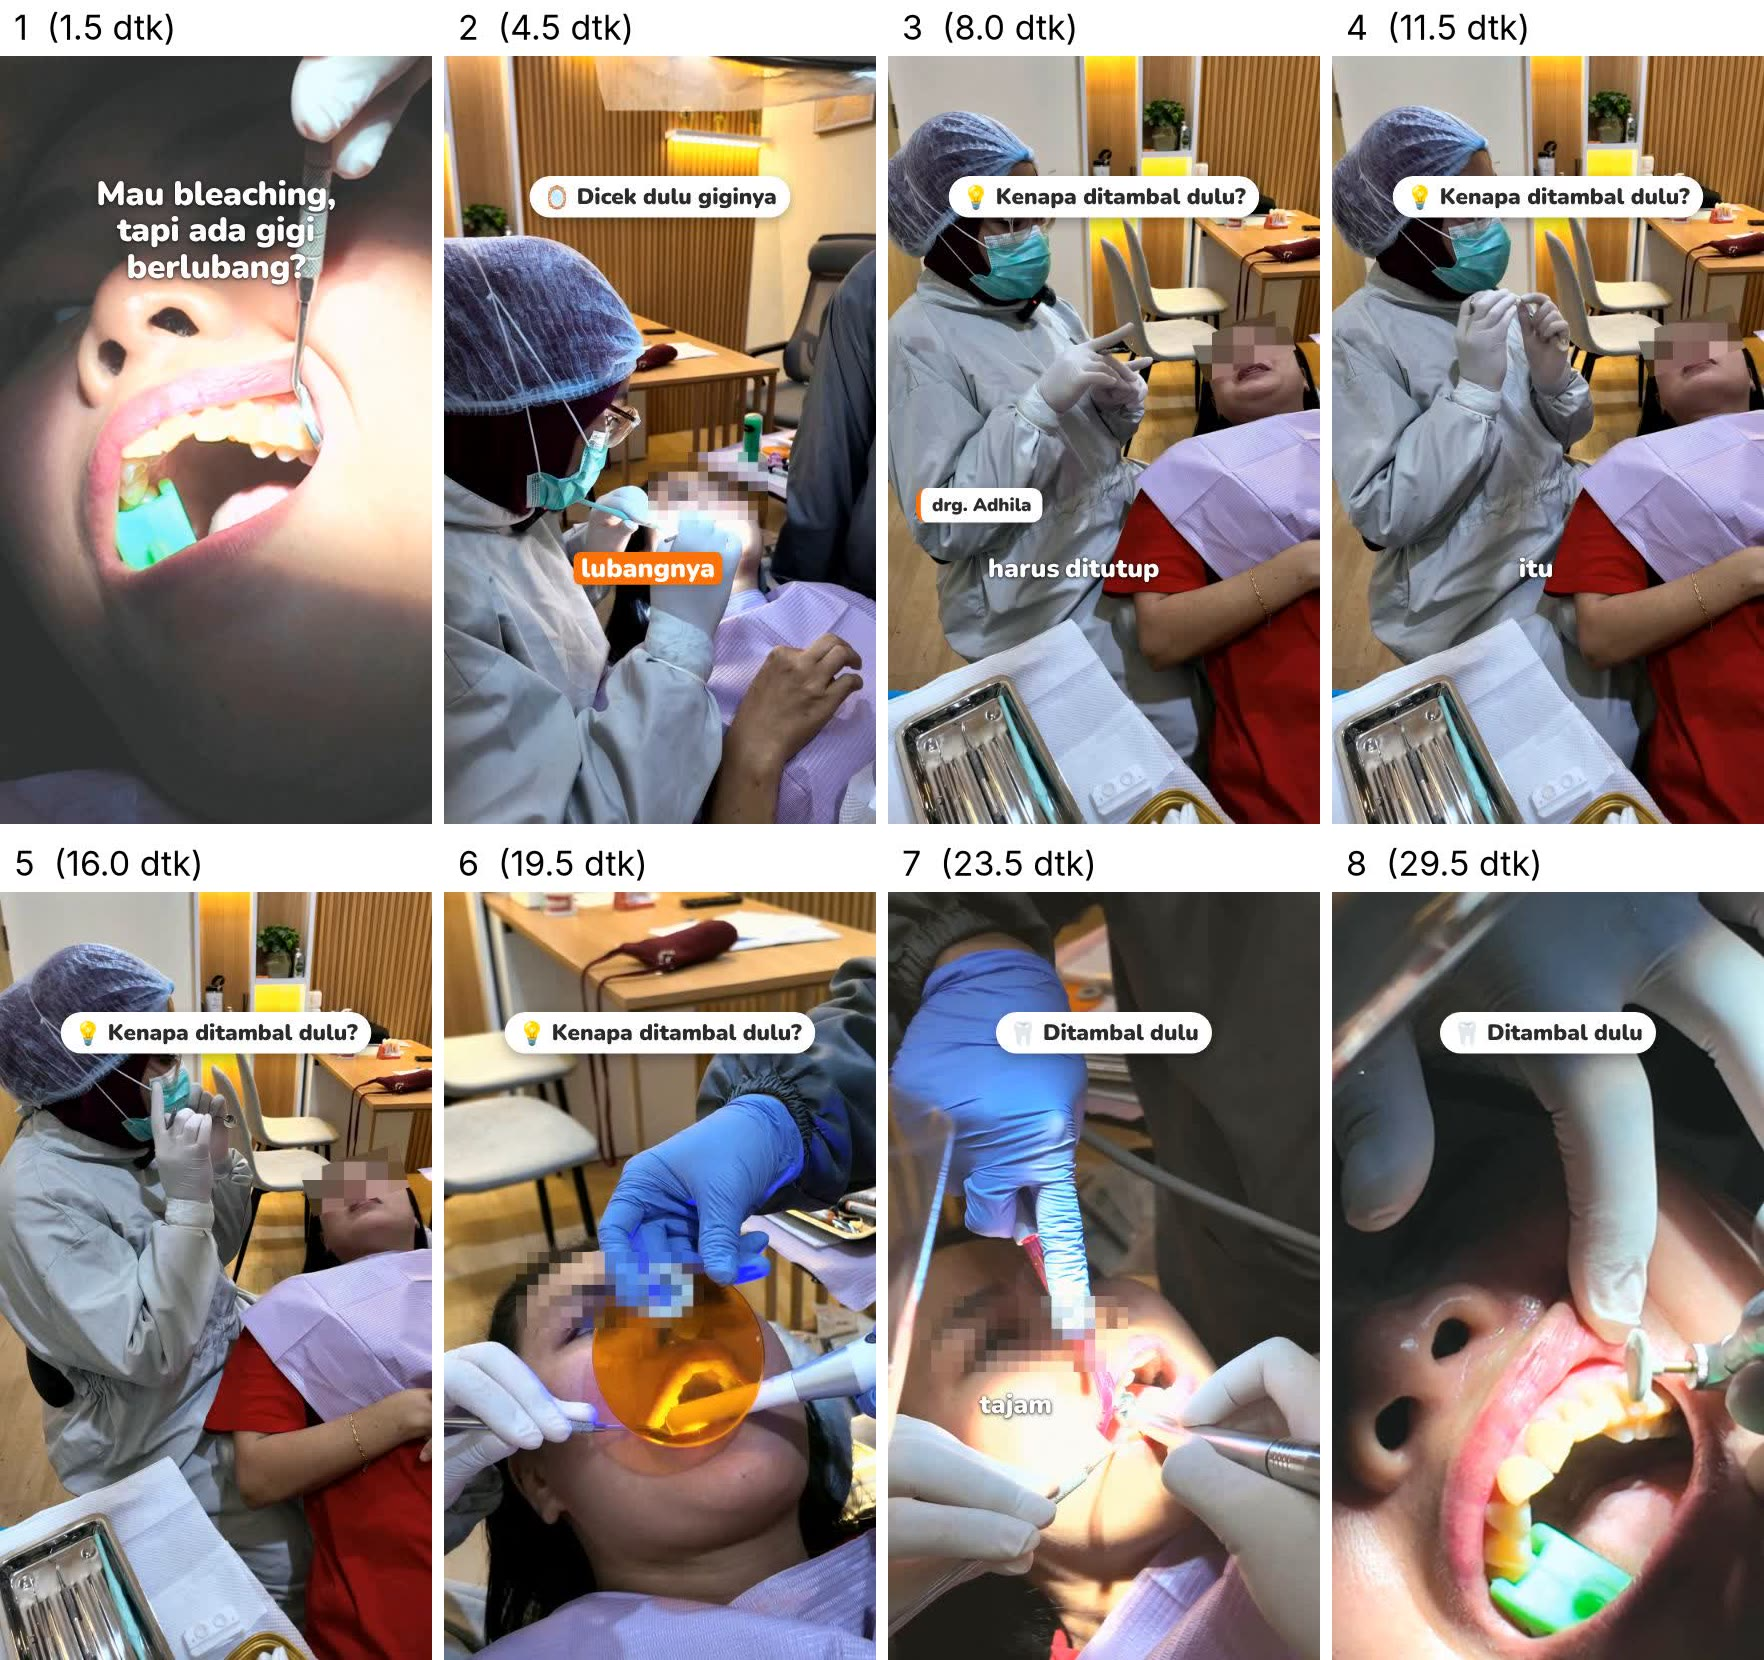
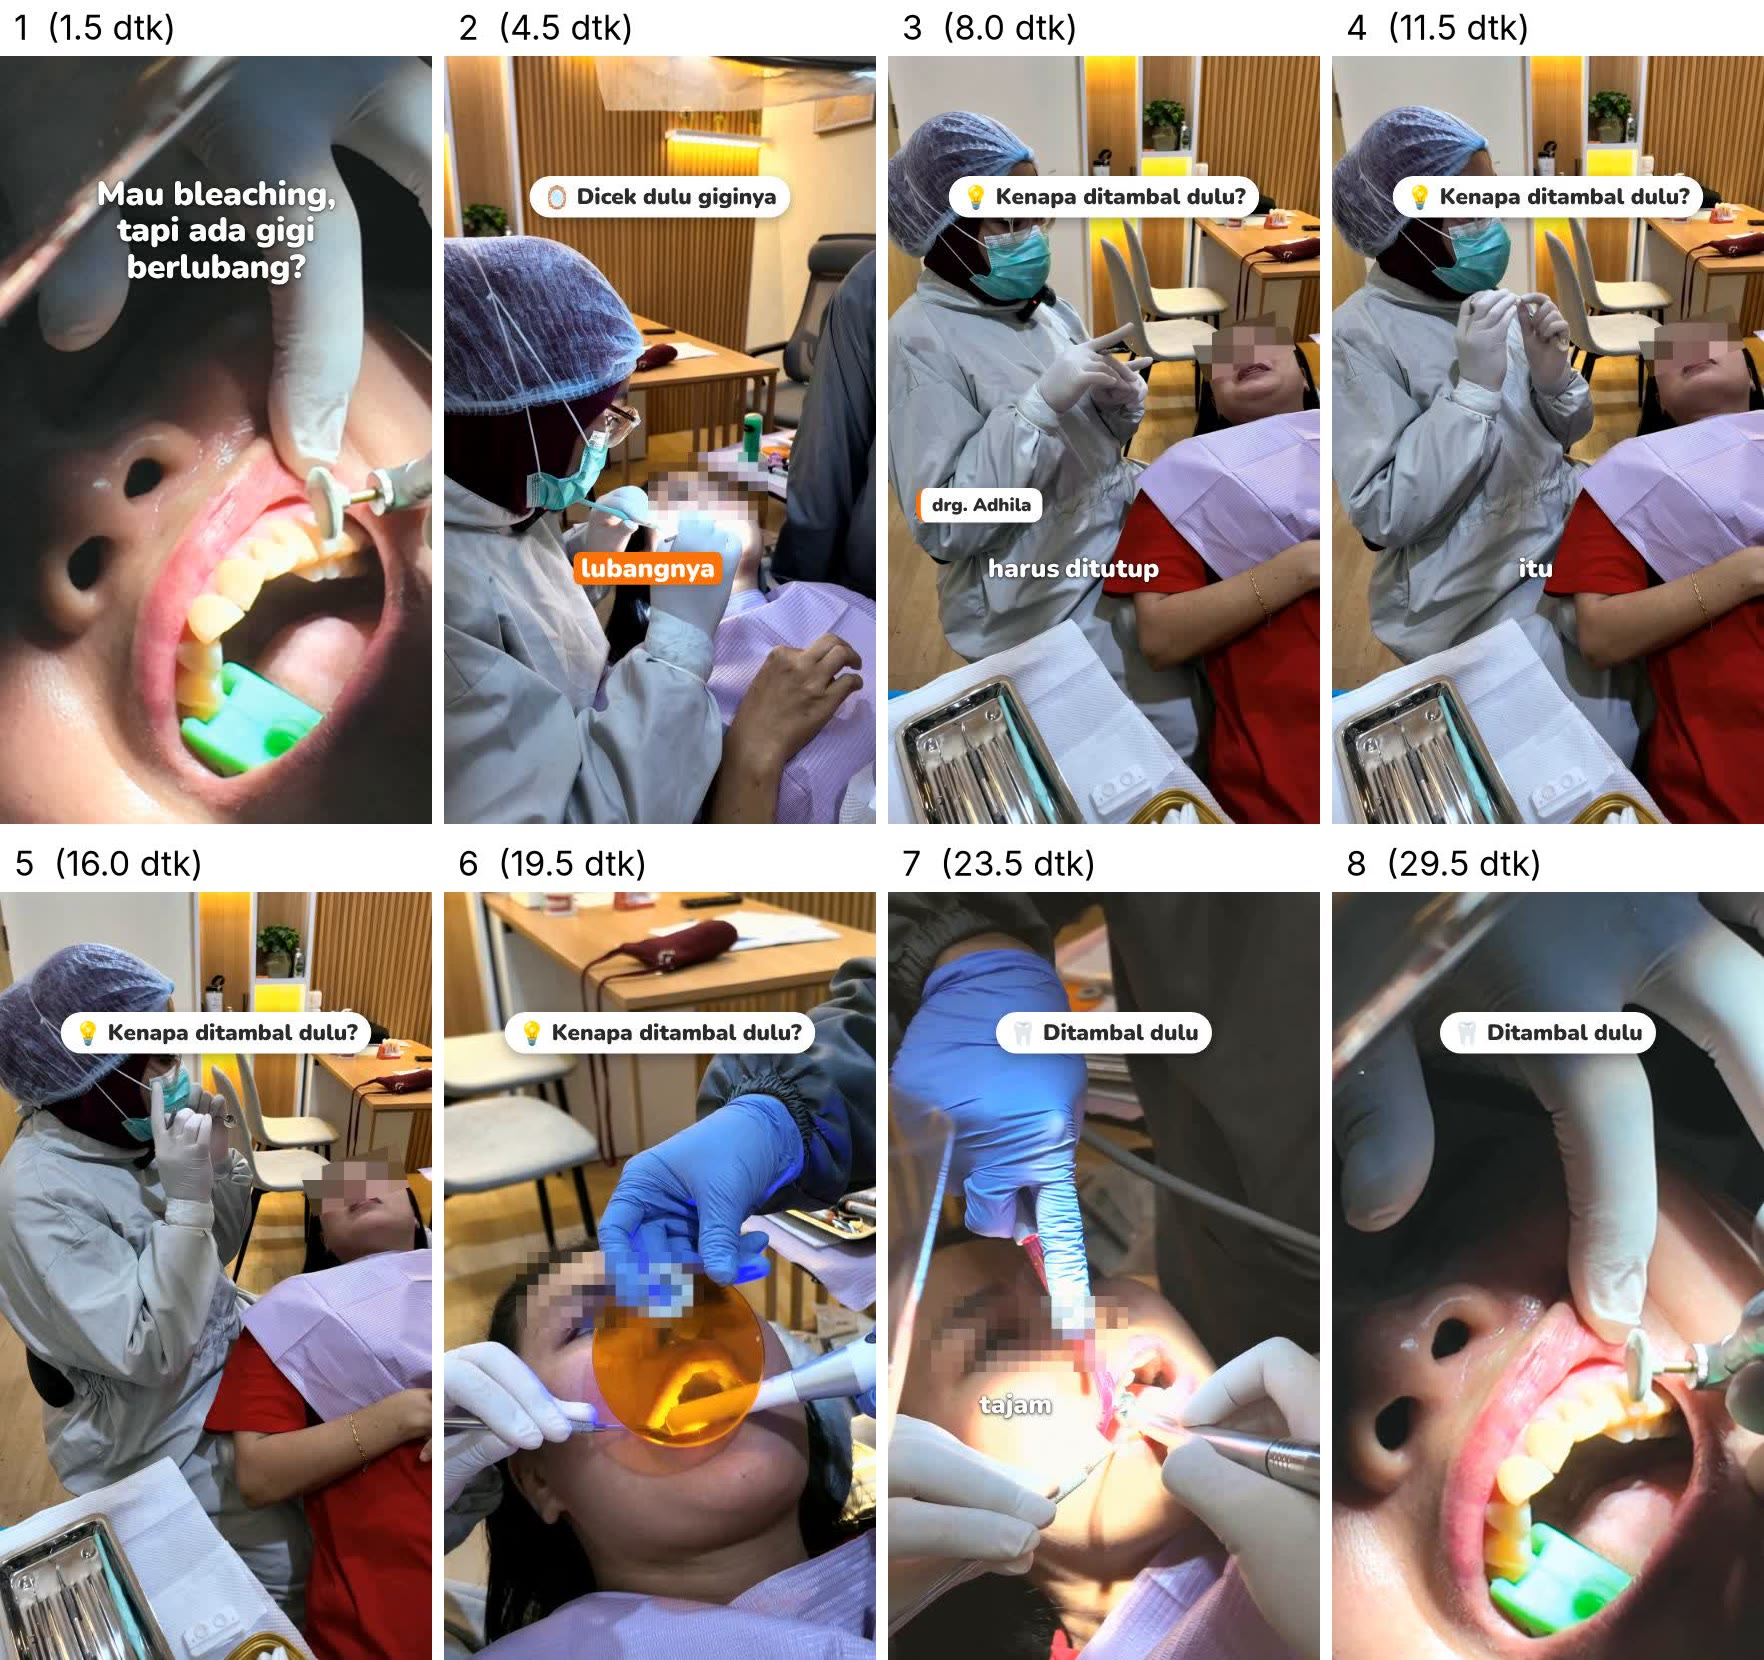
Adhila bleaching-tambal: shot hook diganti close-up poles tanpa wajah pasien (koreksi Dir)
Claude-Session: https://claude.ai/code/session_016b8dWFV4j8YH2mAWRFcYJE

Changed region(s): [[0.0, 0.0307, 0.2494, 0.5223]]

diff --git a/upg-video-projects/adhila-bleaching-tambal/src/timeline.js b/upg-video-projects/adhila-bleaching-tambal/src/timeline.js
@@ -1,5 +1,5 @@
 // DIBUAT OTOMATIS oleh edukasi/scripts/build_timeline.py dari edit.json — jangan diedit manual.
-export const CUTS = [{"clip": "d174448", "in": 2.0, "dur": 3.0, "start": 0.0, "fx": 540, "fy": 700, "tx": 540, "ty": 780, "scale": 1.0, "flash": false, "blur": [], "vol": 0.25}, {"clip": "d171204", "in": 0.86, "dur": 3.4, "start": 3.0, "fx": 540, "fy": 700, "tx": 540, "ty": 780, "scale": 1.0, "flash": false, "blur": [], "vol": 1.0}, {"clip": "d171554", "in": 5.46, "dur": 12.0, "start": 6.4, "fx": 540, "fy": 700, "tx": 540, "ty": 780, "scale": 1.0, "flash": false, "blur": [], "vol": 0.0}, {"clip": "d172238", "in": 0.5, "dur": 3.0, "start": 18.4, "fx": 540, "fy": 700, "tx": 540, "ty": 780, "scale": 1.0, "flash": false, "blur": [], "vol": 0.0}, {"clip": "d171902", "in": 10.94, "dur": 3.18, "start": 21.4, "fx": 540, "fy": 700, "tx": 540, "ty": 780, "scale": 1.0, "flash": false, "blur": [], "vol": 1.0}, {"clip": "d174528", "in": 1.0, "dur": 3.0, "start": 24.58, "fx": 540, "fy": 700, "tx": 540, "ty": 780, "scale": 1.0, "flash": false, "blur": [], "vol": 0.25}, {"clip": "d175854", "in": 6.0, "dur": 4.0, "start": 27.58, "fx": 540, "fy": 700, "tx": 540, "ty": 780, "scale": 1.0, "flash": false, "blur": [], "vol": 0.25}, {"clip": "d174944", "in": 0.5, "dur": 2.5, "start": 31.58, "fx": 540, "fy": 700, "tx": 540, "ty": 780, "scale": 1.0, "flash": false, "blur": [], "vol": 0.25}];
+export const CUTS = [{"clip": "d175854", "in": 13.0, "dur": 3.0, "start": 0.0, "fx": 540, "fy": 700, "tx": 540, "ty": 780, "scale": 1.0, "flash": false, "blur": [], "vol": 0.25}, {"clip": "d171204", "in": 0.86, "dur": 3.4, "start": 3.0, "fx": 540, "fy": 700, "tx": 540, "ty": 780, "scale": 1.0, "flash": false, "blur": [], "vol": 1.0}, {"clip": "d171554", "in": 5.46, "dur": 12.0, "start": 6.4, "fx": 540, "fy": 700, "tx": 540, "ty": 780, "scale": 1.0, "flash": false, "blur": [], "vol": 0.0}, {"clip": "d172238", "in": 0.5, "dur": 3.0, "start": 18.4, "fx": 540, "fy": 700, "tx": 540, "ty": 780, "scale": 1.0, "flash": false, "blur": [], "vol": 0.0}, {"clip": "d171902", "in": 10.94, "dur": 3.18, "start": 21.4, "fx": 540, "fy": 700, "tx": 540, "ty": 780, "scale": 1.0, "flash": false, "blur": [], "vol": 1.0}, {"clip": "d174528", "in": 1.0, "dur": 3.0, "start": 24.58, "fx": 540, "fy": 700, "tx": 540, "ty": 780, "scale": 1.0, "flash": false, "blur": [], "vol": 0.25}, {"clip": "d175854", "in": 6.0, "dur": 4.0, "start": 27.58, "fx": 540, "fy": 700, "tx": 540, "ty": 780, "scale": 1.0, "flash": false, "blur": [], "vol": 0.25}, {"clip": "d174944", "in": 0.5, "dur": 2.5, "start": 31.58, "fx": 540, "fy": 700, "tx": 540, "ty": 780, "scale": 1.0, "flash": false, "blur": [], "vol": 0.25}];
 export const CAPTIONS = [{"from": 3.44, "to": 4.14, "words": [{"text": "ada", "at": 3.44}, {"text": "juga", "at": 3.84}]}, {"from": 4.14, "to": 4.64, "words": [{"text": "lubangnya", "at": 4.14, "hl": true}]}, {"from": 4.64, "to": 5.14, "words": [{"text": "di", "at": 4.64}, {"text": "bawah", "at": 4.74}, {"text": "sini", "at": 4.94}]}, {"from": 5.14, "to": 5.54, "words": [{"text": "tapi", "at": 5.14}, {"text": "memang", "at": 5.19}, {"text": "belum", "at": 5.34}]}, {"from": 5.54, "to": 6.54, "words": [{"text": "ditambal", "at": 5.54}]}, {"from": 7.06, "to": 8.96, "words": [{"text": "harus", "at": 7.06}, {"text": "ditutup", "at": 7.74}, {"text": "ini", "at": 8.6}]}, {"from": 8.96, "to": 9.94, "words": [{"text": "yang", "at": 8.96}, {"text": "bikin", "at": 9.42}]}, {"from": 9.94, "to": 10.54, "words": [{"text": "ngilu", "at": 9.94, "hl": true}]}, {"from": 10.54, "to": 11.1, "words": [{"text": "karena", "at": 10.54}, {"text": "bahan", "at": 10.92}]}, {"from": 11.1, "to": 11.4, "words": [{"text": "bleaching", "at": 11.1, "hl": true}]}, {"from": 11.4, "to": 11.56, "words": [{"text": "itu", "at": 11.4}]}, {"from": 11.56, "to": 12.16, "words": [{"text": "ngilu", "at": 11.56, "hl": true}]}, {"from": 12.16, "to": 13.56, "words": [{"text": "sekali", "at": 12.16}]}, {"from": 14.7, "to": 15.56, "words": [{"text": "itu", "at": 14.7}, {"text": "kenapa", "at": 15.02}, {"text": "kita", "at": 15.36}]}, {"from": 15.56, "to": 16.0, "words": [{"text": "tutup", "at": 15.56}, {"text": "dulu", "at": 15.86}]}, {"from": 16.0, "to": 17.12, "words": [{"text": "lubang-lubangnya", "at": 16.0}]}, {"from": 17.12, "to": 17.34, "words": [{"text": "kita", "at": 17.12}]}, {"from": 17.34, "to": 17.72, "words": [{"text": "tambal", "at": 17.34, "hl": true}]}, {"from": 17.72, "to": 18.7, "words": [{"text": "dulu", "at": 17.72}, {"text": "semua", "at": 17.92}]}, {"from": 22.36, "to": 23.06, "words": [{"text": "bagian", "at": 22.36}, {"text": "gigi", "at": 22.66}, {"text": "yang", "at": 22.96}]}, {"from": 23.06, "to": 24.06, "words": [{"text": "tajam", "at": 23.06}, {"text": "supaya", "at": 23.56}, {"text": "bisa", "at": 23.86}]}, {"from": 24.06, "to": 24.46, "words": [{"text": "melekat", "at": 24.06, "hl": true}]}, {"from": 24.46, "to": 24.91, "words": [{"text": "tambalan", "at": 24.46}]}];
 export const TITLES = [{"kind": "hook", "text": "Mau bleaching,\ntapi ada gigi berlubang?", "from": 0.05, "to": 3.0, "y": 300, "size": 84}, {"kind": "pill", "emoji": "🪞", "text": "Dicek dulu giginya", "from": 3.0, "to": 6.4, "y": 300}, {"kind": "pill", "emoji": "💡", "text": "Kenapa ditambal dulu?", "from": 6.4, "to": 21.4, "y": 300}, {"kind": "pill", "emoji": "🦷", "text": "Ditambal dulu", "from": 21.4, "to": 34.08, "y": 300}];
 export const STICKERS = [];

diff --git a/upg-video-projects/adhila-bleaching-tambal/rancangan-V2.md b/upg-video-projects/adhila-bleaching-tambal/rancangan-V2.md
@@ -9,7 +9,7 @@ Tanpa narasi AI, tanpa musik. Ucapan asli drg. Adhila per kalimat utuh, caption 
 ## Storyboard
 | # | Gambar | Label | Ucapan asli |
 |---|---|---|---|
-| 1 | close-up gigi saat ditambal | Hook: Mau bleaching, tapi ada gigi berlubang? | (bunyi alat) |
+| 1 | close-up poles gigi (mata pasien di luar frame) | Hook: Mau bleaching, tapi ada gigi berlubang? | (bunyi alat) |
 | 2 | dokter periksa dengan cermin | 🪞 Dicek dulu giginya | "Ada juga lubangnya di bawah sini, tapi memang belum ditambal." |
 | 3 | dokter menjelaskan di samping kursi + name tag | 💡 Kenapa ditambal dulu? | "Harus ditutup ini yang bikin ngilu, karena bahan bleaching itu ngilu sekali. Itu kenapa kita tutup dulu lubang-lubangnya, kita tambal dulu semua." |
 | 4 | sinar biru, etsa, bor, poles, sinar biru | 🦷 Ditambal dulu | "Bagian gigi yang tajam supaya bisa melekat tambalan." |
